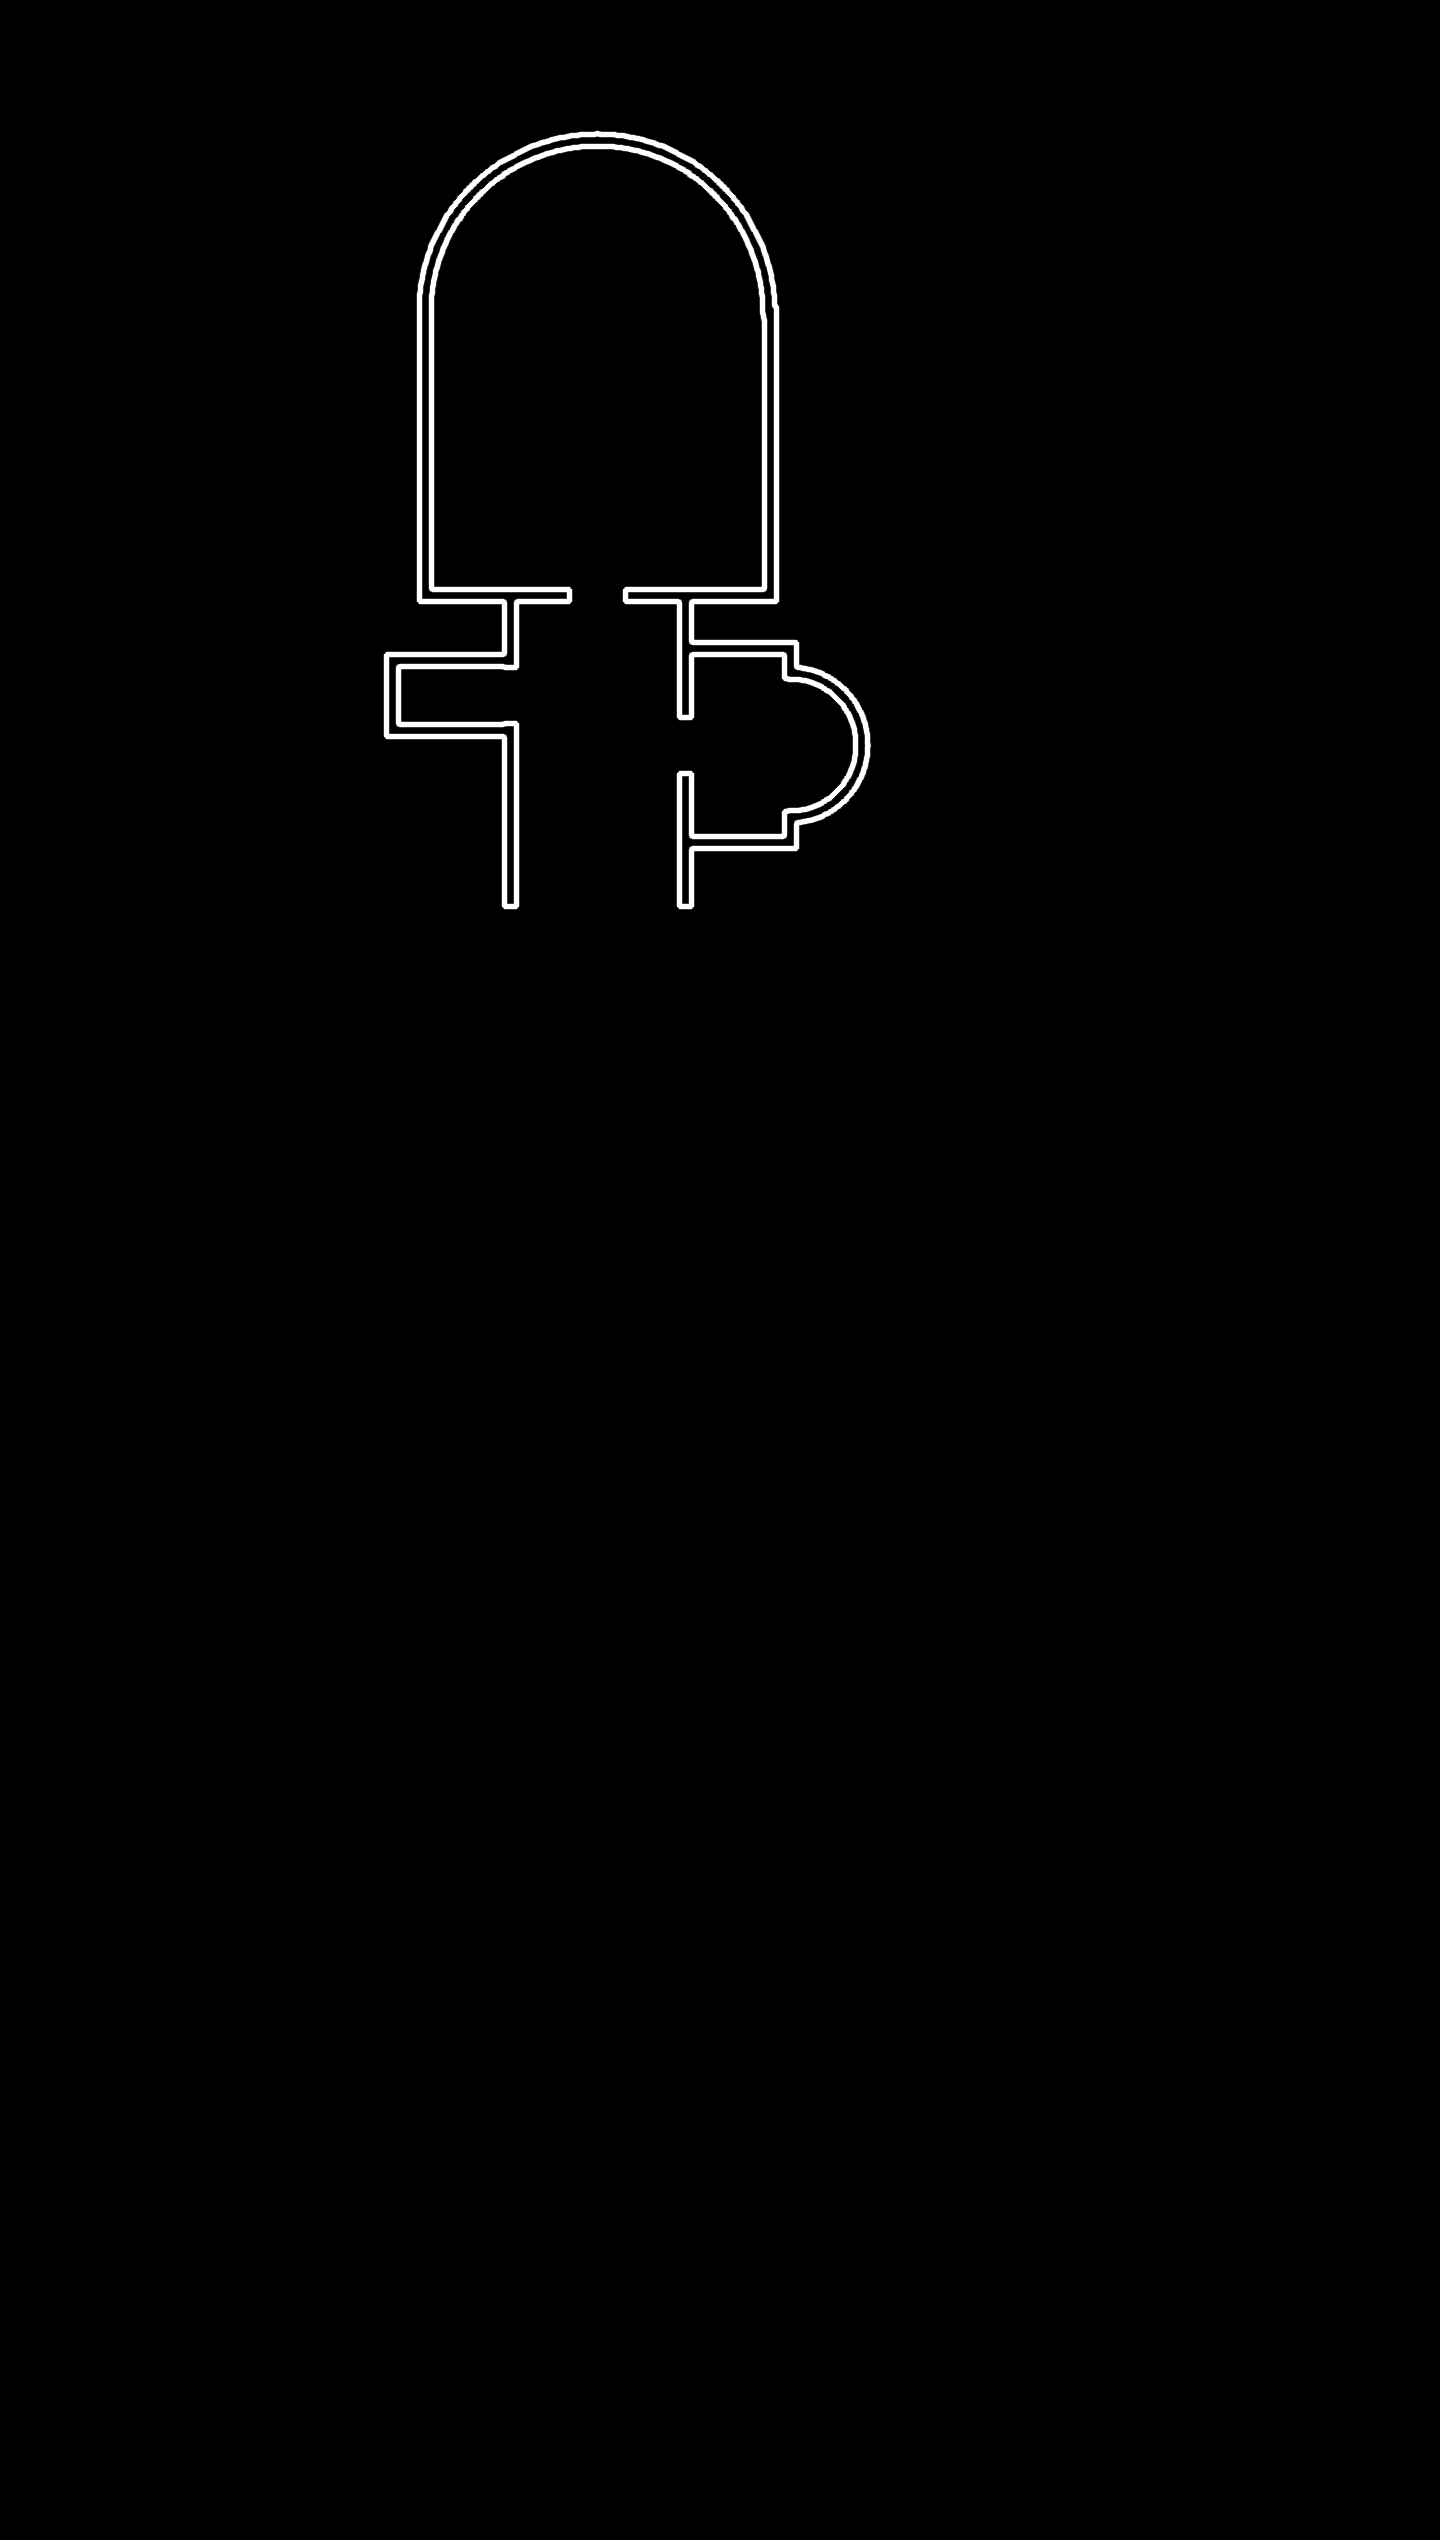
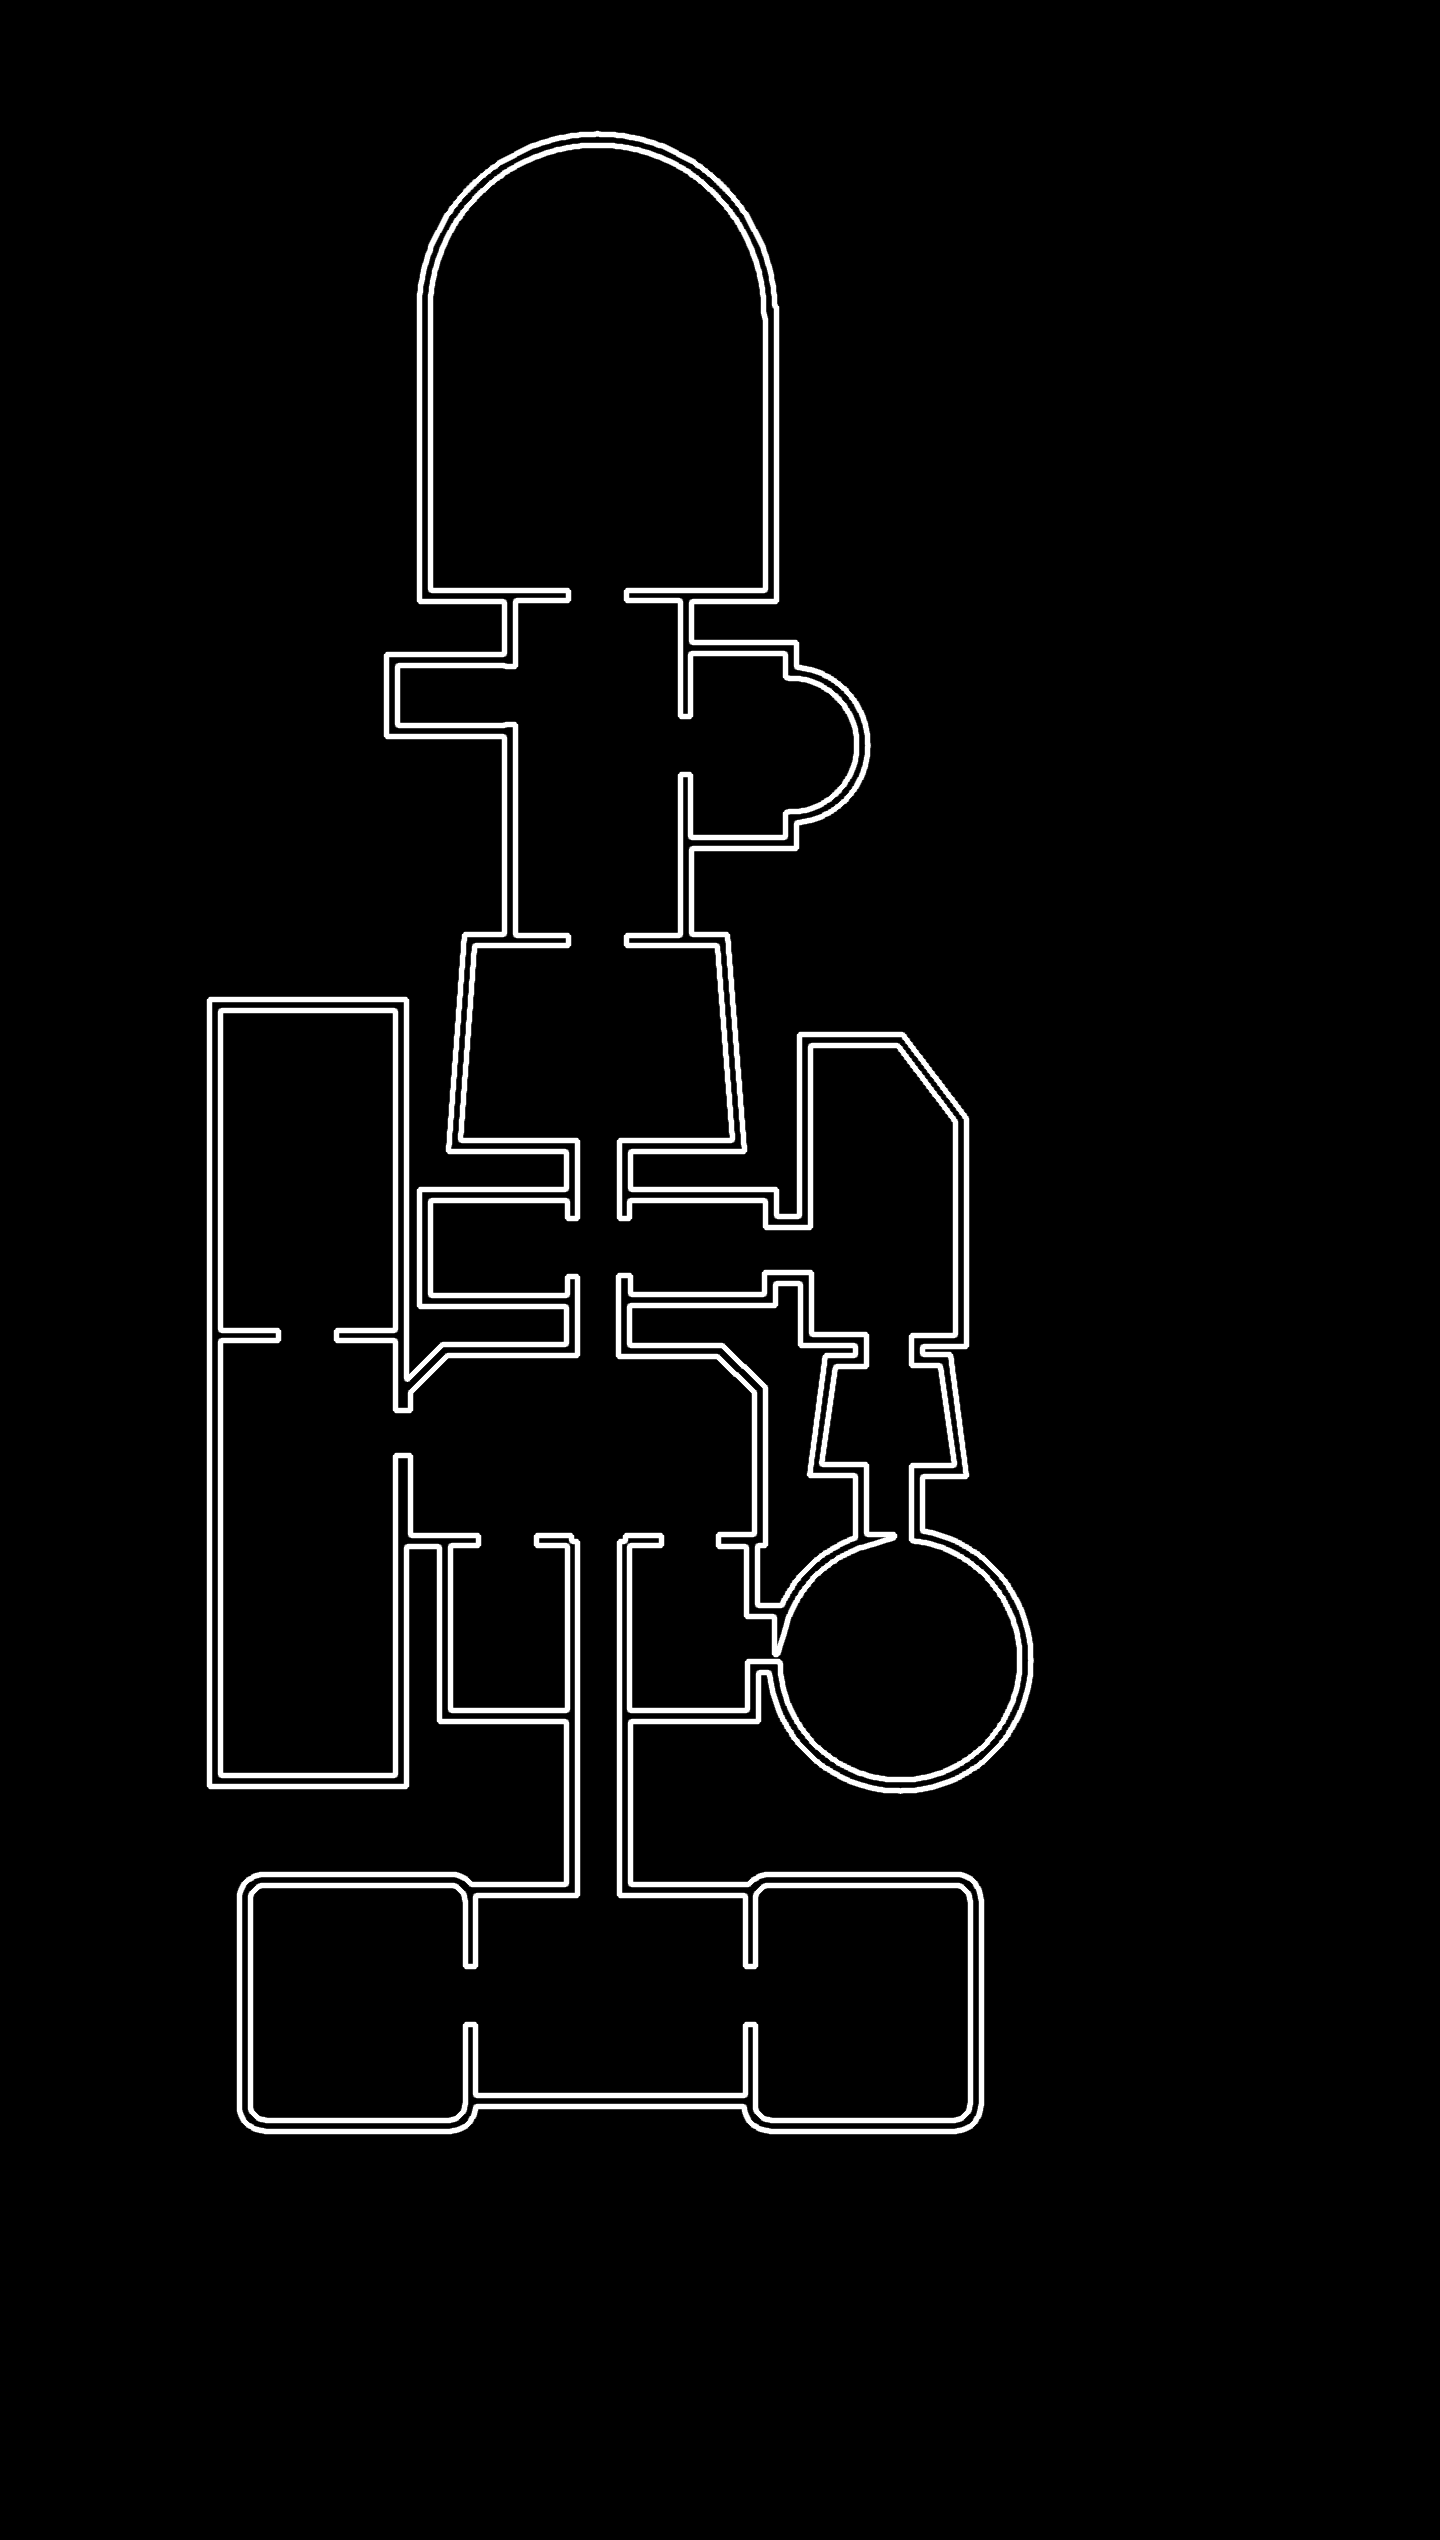
v13.45: Kasparov upper deck sections 2 and 3 clean plan
Claude-Session: https://claude.ai/code/session_01SinQW9aeLHqCBjq9e21Gyo

diff --git a/web_shell.html b/web_shell.html
@@ -4,8 +4,8 @@
 <meta charset="utf-8">
 <meta name="viewport" content="width=device-width,initial-scale=1,maximum-scale=1,user-scalable=no,viewport-fit=cover">
 <meta name="theme-color" content="#f6f9fc">
-<meta name="hl-version" content="v13.44">
-<title>Homelancer Digital v13.44</title>
+<meta name="hl-version" content="v13.45">
+<title>Homelancer Digital v13.45</title>
 <style>
 *{box-sizing:border-box}
 html,body{margin:0;width:100%;height:100%;background:#f6f9fc;color:#0e2f5a;font:16px system-ui,sans-serif;overflow:hidden;touch-action:none}

diff --git a/tools/trace/ship_kasparov_04/eng/build_deck_a.py b/tools/trace/ship_kasparov_04/eng/build_deck_a.py
@@ -23,10 +23,41 @@ ops = unary_union([box(685, 648, 790, 842), Point(790, 745).buffer(72, 96)])
 s1_walls = [wall((510, 595), (685, 595), [87.5]),            # Flight Deck / Fore Passage
             wall((510, 660), (510, 730), [35]),               # side room off the passage
             wall((685, 648), (685, 842), [97])]               # OPS off the passage
-floor = unary_union([flight, passage, side, ops])
+# ---- section 2: middle (mid room, spine, two pods, centre hall, two lower rooms, Infirmary, Machine Shop, round room)
+passage = box(510, 595, 685, 945)
+mid = Polygon([(470, 940), (722, 940), (738, 1145), (455, 1145)])
+spine = box(572, 1145, 624, 1790)
+podL, podR = box(425, 1195, 572, 1300), box(624, 1195, 770, 1300)
+hall = Polygon([(445, 1350), (720, 1350), (760, 1390), (760, 1540), (405, 1540), (405, 1390)])
+lowL, lowR = box(445, 1540, 572, 1715), box(624, 1540, 752, 1715)
+infA, infB = box(215, 1005, 400, 1335), box(215, 1335, 400, 1780)
+infLink = box(400, 1405, 405, 1460)
+shop = Polygon([(805, 1040), (900, 1040), (960, 1120), (960, 1340), (805, 1340)])
+shopLink = box(770, 1222, 805, 1278)
+annex = Polygon([(830, 1360), (945, 1360), (960, 1470), (815, 1470)])
+annexLinks = [box(860, 1340, 916, 1360), box(860, 1470, 916, 1540)]
+roundRm = Point(900, 1660).buffer(125, 128)
+roundLink = box(752, 1610, 780, 1666)
+s2_walls = [wall((470, 940), (722, 940), [127]), wall((455, 1145), (738, 1145), [142]),      # passage / mid / spine
+            wall((572, 1195), (572, 1300), [52.5]), wall((624, 1195), (624, 1300), [52.5]),   # pods off the spine
+            wall((445, 1350), (720, 1350), [152]),                                            # spine into the hall
+            wall((405, 1540), (572, 1540), [102]), wall((624, 1540), (760, 1540), [66]), wall((572, 1540), (572, 1715), []), wall((624, 1540), (624, 1715), []),
+            wall((215, 1335), (400, 1335), [92.5]),                                           # Infirmary fore / aft
+            wall((402, 1390), (402, 1540), [42]),                                             # Infirmary into the hall
+            wall((770, 1222), (770, 1278), [28]), wall((805, 1222), (805, 1278), [28]),       # pod into the Machine Shop
+            wall((805, 1340), (960, 1340), [83]), wall((815, 1470), (960, 1470), [73]),       # shop / annex / round room
+            wall((752, 1610), (752, 1666), [28])]                                             # lower room into the round room
+# ---- section 3: stern (Engine Room with the two engine bays)
+spine3 = box(572, 1780, 624, 1890)
+engine = box(470, 1890, 750, 2100)
+bayL = box(245, 1880, 470, 2125).buffer(-20).buffer(20)
+bayR = box(750, 1880, 975, 2125).buffer(-20).buffer(20)
+s3_walls = [wall((470, 1890), (750, 1890), [128]),                                            # spine into the Engine Room
+            wall((470, 1890), (470, 2100), [105]), wall((750, 1890), (750, 2100), [105])]     # Engine Room / engine bays
+floor = unary_union([spine3, engine, bayL, bayR, flight, passage, side, ops, mid, spine, podL, podR, hall, lowL, lowR, infA, infB, infLink, shop, shopLink,
+                     annex, roundRm, roundLink] + annexLinks)
 walls = floor.buffer(T / 2, join_style=2).difference(floor.buffer(-T / 2, join_style=2))
-walls = unary_union([walls, unary_union(s1_walls).intersection(floor.buffer(T / 2, join_style=2))])
-walls = walls.difference(box(516, 890, 679, 910))            # the passage runs on aft (next section)
+walls = unary_union([walls, unary_union(s1_walls + s2_walls + s3_walls).intersection(floor.buffer(T / 2, join_style=2))])
 
 src = cv2.imread(os.path.join(HERE, "..", "deck_a_x4.jpg")); H, W = src.shape[:2]
 mask = np.zeros((H, W), np.uint8)
@@ -39,6 +70,8 @@ plan = np.zeros_like(src); ov = (src * 0.5).astype(np.uint8)
 for im in (plan, ov): cv2.drawContours(im, cs, -1, (255, 255, 255), 3, cv2.LINE_AA)
 cv2.imwrite(os.path.join(HERE, "deck_a_plan.png"), plan)
 cv2.imwrite(os.path.join(HERE, "deck_a_plan_on_map.jpg"), ov, [cv2.IMWRITE_JPEG_QUALITY, 88])
+cv2.imwrite(os.path.join(HERE, "deck_a_s2_big.jpg"), cv2.resize(ov[880:1820, 180:1060], None, fx=1.2, fy=1.2, interpolation=cv2.INTER_CUBIC), [cv2.IMWRITE_JPEG_QUALITY, 90])
+cv2.imwrite(os.path.join(HERE, "deck_a_s3_big.jpg"), cv2.resize(ov[1700:2180, 180:1060], None, fx=1.4, fy=1.4, interpolation=cv2.INTER_CUBIC), [cv2.IMWRITE_JPEG_QUALITY, 90])
 cv2.imwrite(os.path.join(HERE, "deck_a_s1_big.jpg"), cv2.resize(ov[100:920, 340:900], None, fx=1.5, fy=1.5, interpolation=cv2.INTER_CUBIC), [cv2.IMWRITE_JPEG_QUALITY, 90])
 json.dump({"units": "deck_a x4 px", "thickness": T, "door": DOOR, "floor": mapping(floor), "walls": mapping(walls)}, open(os.path.join(HERE, "deck_a_plan.json"), "w"))
 print("ok")

diff --git a/docs/V1.2_BUILD.md b/docs/V1.2_BUILD.md
@@ -2214,3 +2214,6 @@ the camera automatically does a zoom to that section ... helmet, body, lower bod
 
 ## v13.44 — Tianjin graybox built in Blender (WIP, no game change)
 - ship_tianjin_03/blender/build_graybox.py (bpy 5.3, cloud): extrudes the approved plans. Main deck at z 0, command tower one deck up (3.5 m) on the stern block, exterior hull as a thin reference outline. Scale: standard door = 1.2 m; walls 3.0 m; slab 0.2 m. Main deck 52.5 x 35.6 m, hull 90.9 m long, tower 20.8 x 12.8 m. tianjin_graybox_WIP_NOT_APPROVED.blend/.glb, check renders.
+
+## v13.45
+- Kasparov upper deck: middle section (mid room, spine, pods, centre hall, lower rooms, Infirmary, Machine Shop + annex, round room) and stern (Engine Room with two engine bays) traced as a clean plan.
